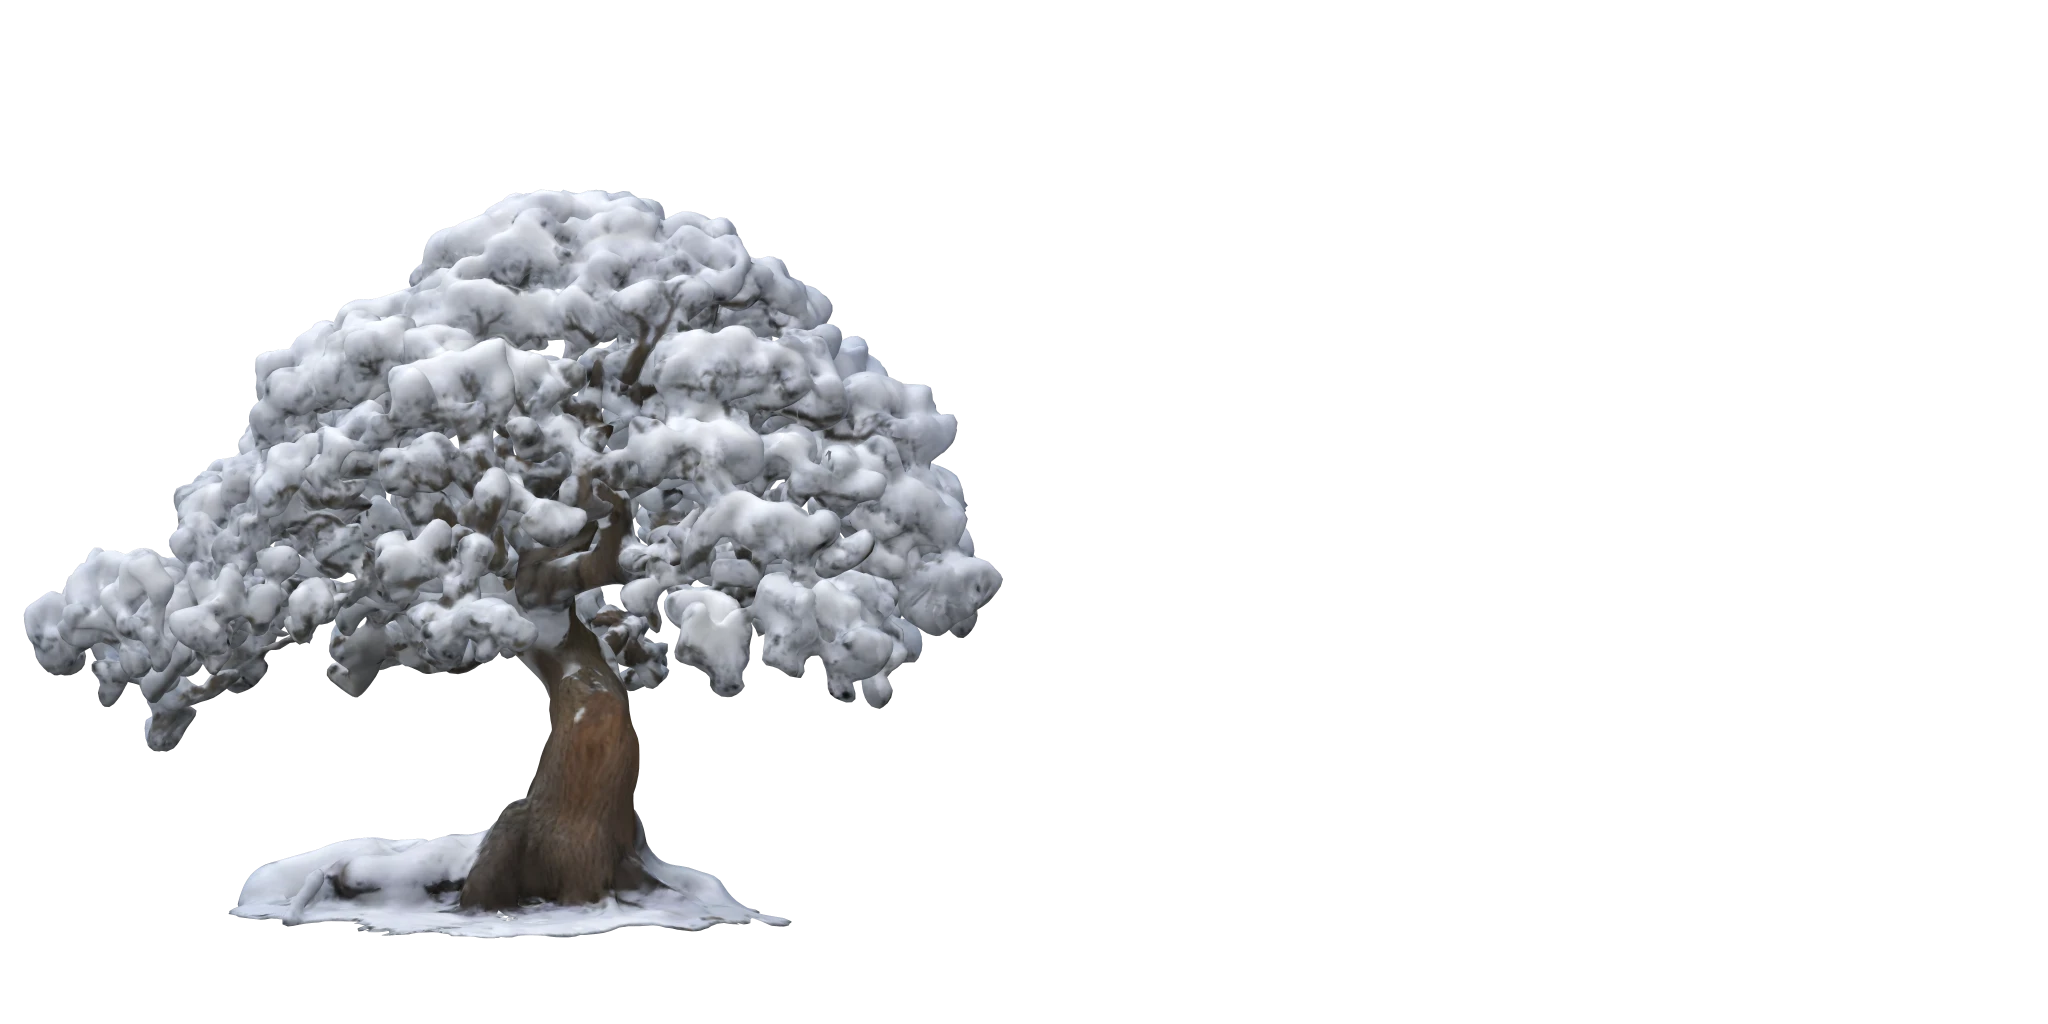
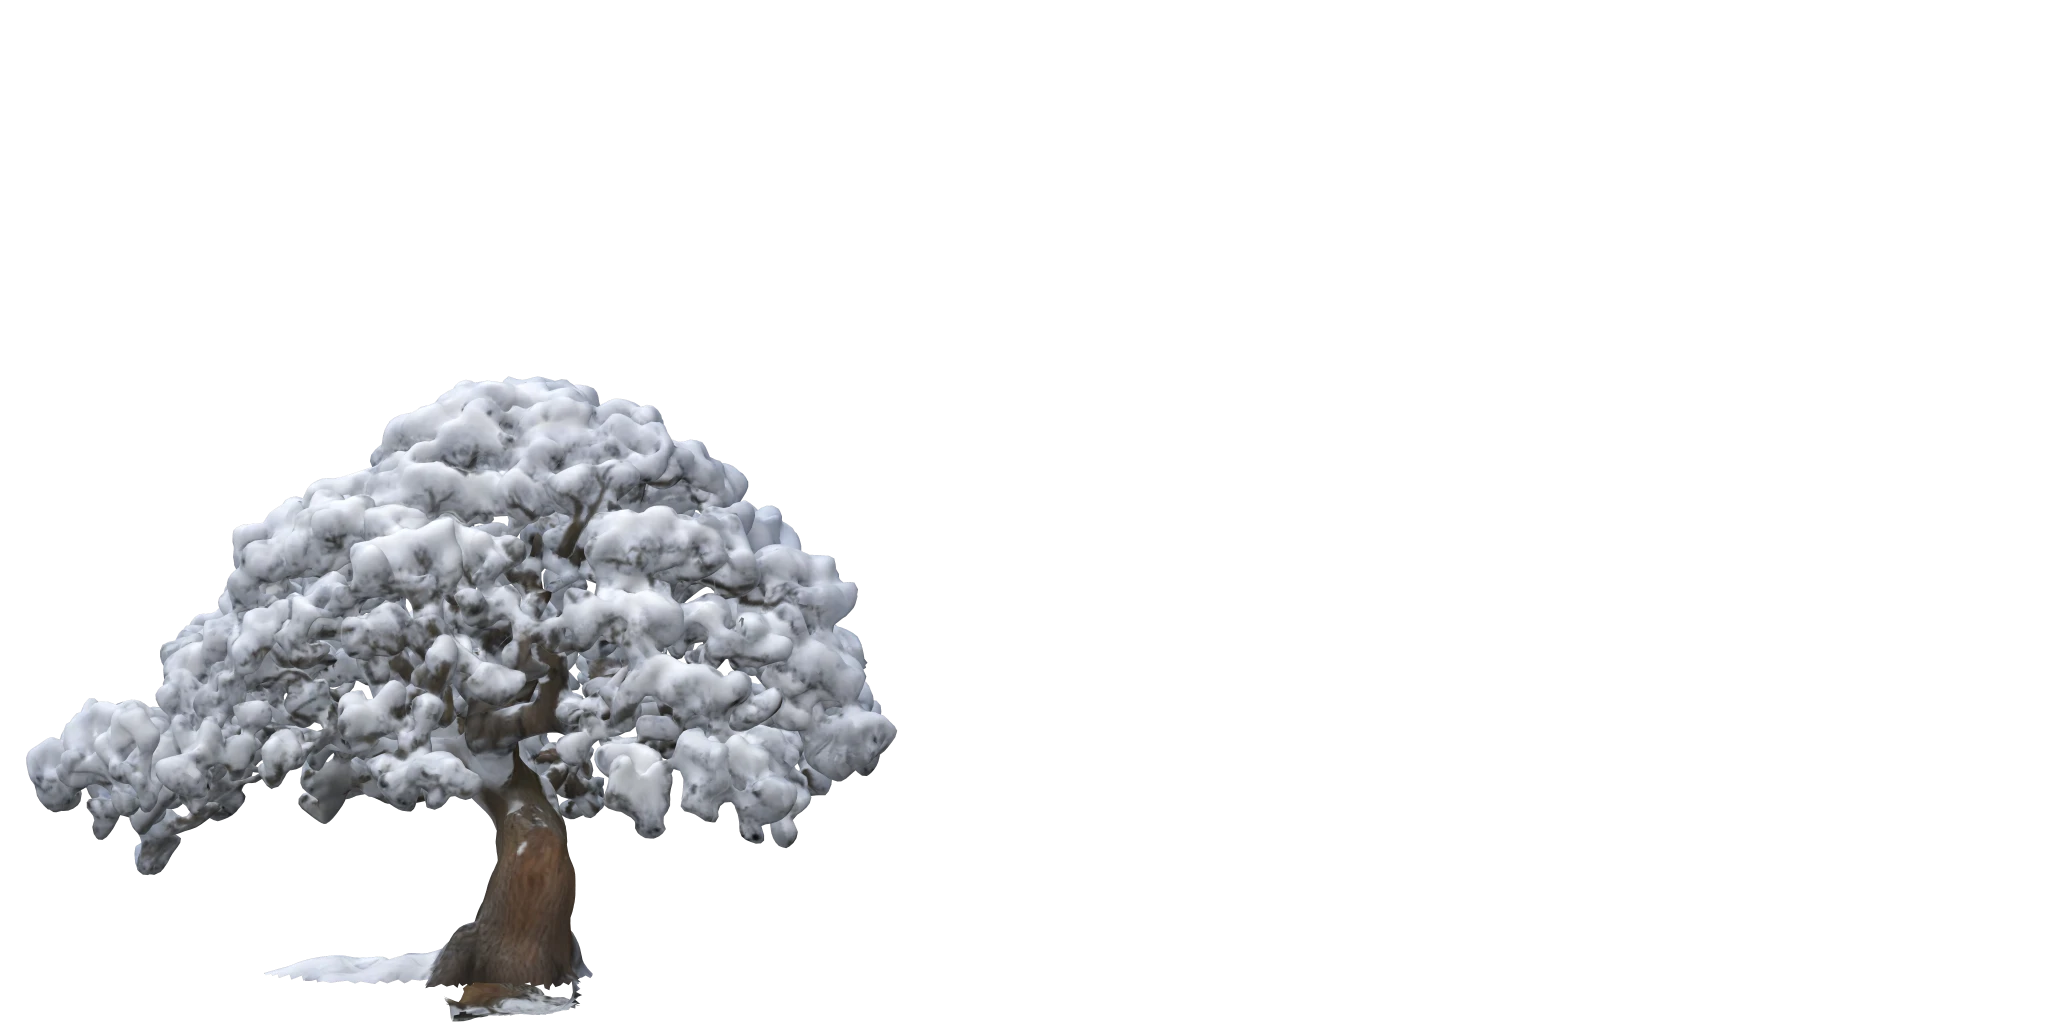
Acceso: los árboles de verano, otoño e invierno quedan plantados
El pie del tronco se hunde en el suelo (antes quedaba justo en la línea y
parecía flotar sobre la loma) y al árbol nevado se le quita el montón de nieve
que traía el modelo alrededor. En invierno, sin briznas que lo tapen, el
tronco baja hasta donde lo corta la nieve.

Changed region(s): [[0.0, 0.1875, 0.5, 1.0]]

diff --git a/assets/css/seasons/winter.css b/assets/css/seasons/winter.css
@@ -1,2 +1,2 @@
 /* Fotos de espera de la pantalla de acceso (las escribe scripts/make-auth-posters.js; no tocar a mano). */
[2 lines of base64/hex data omitted]

diff --git a/assets/css/seasons/autumn.css b/assets/css/seasons/autumn.css
@@ -1,2 +1,2 @@
 /* Fotos de espera de la pantalla de acceso (las escribe scripts/make-auth-posters.js; no tocar a mano). */
[2 lines of base64/hex data omitted]

diff --git a/assets/css/seasons/summer.css b/assets/css/seasons/summer.css
@@ -1,2 +1,2 @@
 /* Fotos de espera de la pantalla de acceso (las escribe scripts/make-auth-posters.js; no tocar a mano). */
[2 lines of base64/hex data omitted]

diff --git a/scripts/make-trees.js b/scripts/make-trees.js
@@ -32,10 +32,15 @@ const MODELS = modelsDir();
 /* Cada árbol: su OBJ y, por material, la capa (wood: madera; leaf: hojas) y sus texturas.
    turn: giro alrededor del tronco, en grados, para elegir el lado bueno. cut: transparencia
    a partir de la cual un punto de la textura no se pinta. tint: color [r, g, b, cuánto] que
-   sustituye al de la textura (cuando esta solo trae la silueta). gain: más o menos luz. */
+   sustituye al de la textura (cuando esta solo trae la silueta). gain: más o menos luz.
+   sink: cuánto se hunde el pie en el suelo, en unidades del encuadre; la escena recorta el
+   árbol a ras de suelo, y con el pie justo en la línea parecía flotar sobre la loma.
+   strip: quita lo que el modelo trae a ras de suelo alrededor del tronco (un montón de nieve):
+   las caras por debajo de `below` y a más de `beyond` del eje, las dos en partes del alto.
+   foot: entre qué alturas (partes del alto) se mide dónde está el eje del tronco. */
 const TREES = {
   verano: {
-    out: 'tree-summer.webp', obj: 'summer tree/TreeOld_2.obj', turn: 270,
+    out: 'tree-summer.webp', obj: 'summer tree/TreeOld_2.obj', turn: 270, sink: 0.85,
     materials: {
       Trunk: {layer: 'wood', tex: 'summer tree/Textures/Textures/Trunk_BaseColorUntitled.png'},
       Branches: {layer: 'wood', tex: 'summer tree/Textures/Textures/BranchesDiffuse.jpg'},
@@ -44,14 +49,15 @@ const TREES = {
     }
   },
   otono: {
-    out: 'tree-autumn.webp', obj: 'Autumn tree/TR_01_autumn.obj', turn: 180,
+    out: 'tree-autumn.webp', obj: 'Autumn tree/TR_01_autumn.obj', turn: 180, sink: 0.7,
     materials: {
       Tr_01_Stem_autumn_001_mat: {layer: 'wood', tex: 'Autumn tree/texture/Tr_01_Stem_autumn_001_mat_Base_color.png'},
       Tr_01_Leaves_autumn_001_mat: {layer: 'leaf', tex: 'Autumn tree/texture/Tr_01_Leaves_autumn_001_Base_color.png', alpha: 'Autumn tree/texture/Tr_01_Leaves_autumn_001_Opacity.png', cut: 0.5}
     }
   },
   invierno: {
-    out: 'tree-winter.webp', obj: 'winter tree/winter-tree8_HIGH_RES.obj', turn: 0,
+    out: 'tree-winter.webp', obj: 'winter tree/winter-tree8_HIGH_RES.obj', turn: 0, sink: 1.0,
+    strip: {below: 0.09, beyond: 0.10}, foot: [0.14, 0.20],
     /* Un solo material, con la nieve ya puesta en las ramas: todo es madera, nada se mueve. */
     materials: {'winter-tree8': {layer: 'wood', tex: 'winter tree/textures/winter-tree8.png'}}
   }
@@ -238,8 +244,22 @@ async function render(cfg){
     each((x, y, z, layer) => { if(layer === 'wood' && y < minY) minY = y; if(y > maxY) maxY = y; });
     const h = maxY - minY;
     let bx = 0, bz = 0, bn = 0;
-    each((x, y, z, layer) => { if(layer === 'wood' && y < minY + h * 0.03){ bx += x; bz += z; bn++; } });
+    const foot = tree.foot || [0, 0.03];
+    each((x, y, z, layer) => { if(layer === 'wood' && y >= minY + h * foot[0] && y < minY + h * foot[1]){ bx += x; bz += z; bn++; } });
     bx /= bn; bz /= bn;
+    if(tree.strip){
+      const low = minY + h * tree.strip.below, far = h * tree.strip.beyond;
+      Object.keys(groups).forEach((m) => {
+        const g = groups[m], kept = [];
+        for(let i = 0; i < g.length; i += 24){
+          const ys = Math.max(g[i + 1], g[i + 9], g[i + 17]);
+          const cx = (g[i] + g[i + 8] + g[i + 16]) / 3 - bx, cz = (g[i + 2] + g[i + 10] + g[i + 18]) / 3 - bz;
+          if(ys < low && Math.hypot(cx, cz) > far) continue;
+          for(let j = 0; j < 24; j++) kept.push(g[i + j]);
+        }
+        groups[m] = kept;
+      });
+    }
     let wide = 0, top = 0, cx = 0, cyy = 0, cz = 0, cn = 0;
     each((x, y, z) => {
       const rx = (x - bx) * c + (z - bz) * s, rz = -(x - bx) * s + (z - bz) * c;
@@ -250,7 +270,7 @@ async function render(cfg){
     });
     const scale = Math.min(7.9 / top, 4.35 / wide);
     const crown = [cx / cn * scale, cyy / cn * scale, cz / cn * scale];
-    const cfg = {turn: tree.turn, scale, base: [bx, minY, bz], crown, crownR: Math.max(wide, top * 0.6) * scale * 0.75, quality: 0.9, groups: []};
+    const cfg = {turn: tree.turn, scale, base: [bx, minY + (tree.sink || 0) / scale, bz], crown, crownR: Math.max(wide, top * 0.6) * scale * 0.75, quality: 0.9, groups: []};
     Object.keys(groups).forEach((m, i) => {
       const mat = tree.materials[m];
       if(!mat) return;

diff --git a/src/views/auth-scene.js b/src/views/auth-scene.js
@@ -610,7 +610,12 @@
     /* tapa la hierba en la escena, con el borde desigual de las briznas. */
     '#ifdef LIVE',
     '    float wx = u.x * treeSc;',
+    /* En invierno no hay briznas: el tronco baja hasta donde lo corta la nieve. */
+    '#if SEASON == 3',
+    '    float top = -.62;',
+    '#else',
     '    float top = -.22 + (.04 + .16 * noise(vec2(wx * 34., 3.)) + .12 * noise(vec2(wx * 5., 9.))) / treeSc;',
+    '#endif',
     '    tr *= smoothstep(top - .05, top + .05, u.y);',
     '#endif',
     '    if(tp > 0. && !(tGround > 0. && tGround < tp)){',
